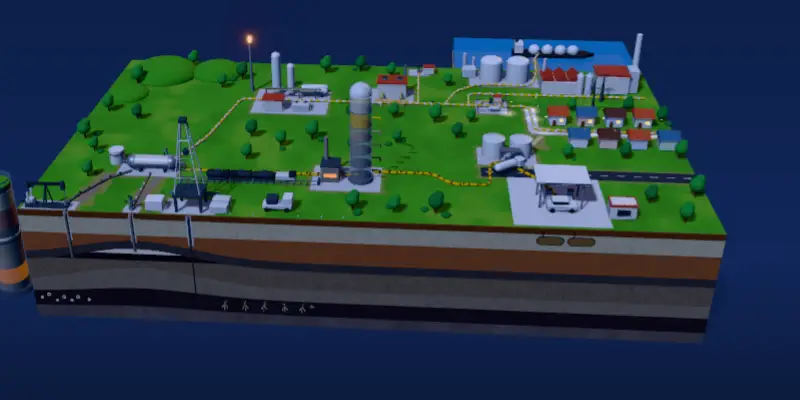
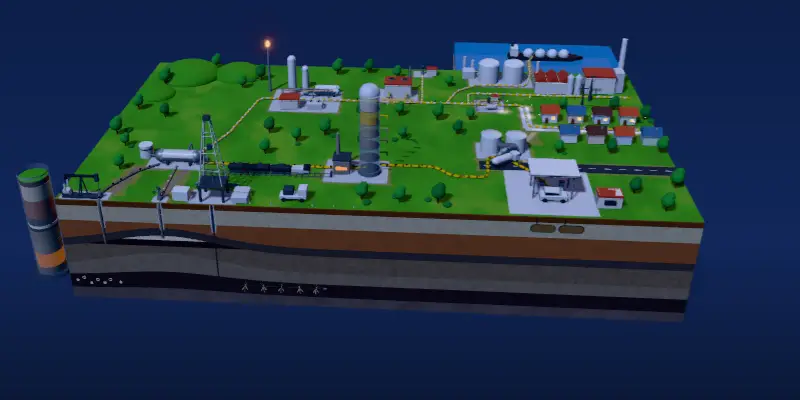
Fix what the stage's review found on the portal
- The Gas & Petroleum card's preview cut the core sample's column off at
  its left edge; it's cropped from the whole model again.
- The hero band, short on most desktops, cut the refinery's dome; it now
  gives up more of the cut face below than of the model's top. On a phone
  held sideways, the 4:3 still could stand taller than the screen; it's
  held to most of it.
- A card's section line read to a screen reader as one run-on phrase; a
  stop between the section's name and its line is heard, not seen. The
  cards' list is named for what's on it, lessons and what's coming.
- The hero's name and line take their sizes from the type scale (a new
  lede size for the line), as every other size does.
- The shell test checks the cards' own list, not the footer's links.
- A comment said the step bar names where Next goes; it doesn't, so the
  comments now say what's true: its Next goes on to it.

diff --git a/tests/e2e/portal.spec.ts b/tests/e2e/portal.spec.ts
@@ -13,6 +13,7 @@ import { BRAND, SITE_URL } from '../../config/brand.ts';
 import { SECTIONS, type Lesson } from '../../content/portal.ts';
 import { THEMES } from '../../src/design/tokens.ts';
 import { PAGES, lessonPage, lessonTransition, pageById } from '../../src/site/pages.ts';
+import { CARDS_NAME } from '../../src/site/shell.ts';
 import { SETTINGS_KEY } from '../../src/site/settings.ts';
 import { PREVIEW_SIZE, heroPath, previewPath } from '../../src/site/stills.ts';
 import { expect, loadImages, test, waitReady } from './fixtures.ts';
@@ -39,7 +40,7 @@ async function expectNoViolations(page: Page) {
 test('the portal’s cards show every lesson and section, and what’s coming', async ({ page }) => {
   await openPortal(page);
   await expect(page).toHaveTitle(BRAND.name);
-  const cards = page.getByRole('list', { name: 'Lessons' }).getByRole('listitem');
+  const cards = page.getByRole('list', { name: CARDS_NAME }).getByRole('listitem');
   const lessons = SECTIONS.flatMap((section) => section.lessons);
   const coming = SECTIONS.filter((section) => section.lessons.length === 0);
   await expect(cards).toHaveCount(lessons.length + coming.length);
@@ -95,7 +96,7 @@ test.describe('on a desktop', () => {
     for (const part of [
       page.getByRole('heading', { level: 1 }),
       page.locator('.hero-image'),
-      ...(await page.getByRole('list', { name: 'Lessons' }).getByRole('listitem').all()),
+      ...(await page.getByRole('list', { name: CARDS_NAME }).getByRole('listitem').all()),
     ]) {
       const box = await part.boundingBox();
       expect((box?.y ?? Infinity) + (box?.height ?? 0)).toBeLessThanOrEqual(screen);

diff --git a/src/site/shell.ts b/src/site/shell.ts
@@ -28,6 +28,9 @@ export const HERO_SLOT = '<!-- portal-hero -->';
 /** Where the cards go in the portal's static shell. */
 export const CARDS_SLOT = '<!-- portal-cards -->';
 
+/** What the cards' list is named for readers: the lessons, then what's to come. */
+export const CARDS_NAME = 'Lessons, and what’s coming';
+
 const attr = escapeHtml;
 
 /** The head's tags, after the page's own. */
@@ -178,7 +181,8 @@ export function cardsHtml(): string {
       // The link covers the whole card, so anywhere on it opens the lesson.
       `<h2 class="card-title"><a class="card-link" href="${BASE_PATH}${lesson.href}">${escapeHtml(lesson.title)}</a>${iconSlot('forward', 'card-arrow')}</h2>`,
       `<p class="card-summary">${escapeHtml(lesson.summary)}</p>`,
-      `<p class="card-section">${iconSlot(section.icon, 'card-icon')}<span><strong>${escapeHtml(section.title)}</strong> ${escapeHtml(section.summary)}</span></p>`,
+      // A stop between the section's name and its line, heard but not seen.
+      `<p class="card-section">${iconSlot(section.icon, 'card-icon')}<span><strong>${escapeHtml(section.title)}</strong><span class="sr-only">:</span> ${escapeHtml(section.summary)}</span></p>`,
       '</div></li>',
     ].join('');
   };
@@ -198,7 +202,7 @@ export function cardsHtml(): string {
     ),
     ...SECTIONS.filter((section) => section.lessons.length === 0).map(soonCard),
   ];
-  return `<ul class="cards" aria-label="Lessons">${cards.join('')}</ul>`;
+  return `<ul class="cards" aria-label="${attr(CARDS_NAME)}">${cards.join('')}</ul>`;
 }
 
 /**

diff --git a/src/site/shell.test.ts b/src/site/shell.test.ts
@@ -4,7 +4,7 @@ import { describe, expect, it } from 'vitest';
 import { BASE_PATH, BRAND, SITE_URL, escapeHtml } from '../../config/brand.ts';
 import { SECTIONS } from '../../content/portal.ts';
 import { PAGES, lessonPage, lessonTransition, pageById, posterPath } from './pages.ts';
-import { BOOT, CARDS_SLOT, HERO_SLOT, LOADER_SLOT, renderPage } from './shell.ts';
+import { BOOT, CARDS_NAME, CARDS_SLOT, HERO_SLOT, LOADER_SLOT, renderPage } from './shell.ts';
 import { HERO_SHAPES, THEME_NAMES, heroPath, previewPath } from './stills.ts';
 
 const render = (page: (typeof PAGES)[number]) => renderPage(readFileSync(page.html, 'utf8'), page);
@@ -88,7 +88,11 @@ describe('renderPage', () => {
   });
 
   it('the portal: a card for each lesson, with its preview in each theme, then what’s coming', () => {
-    const html = render(pageById('portal'));
+    const page = render(pageById('portal'));
+    // The cards' list alone, not the footer's lessons.
+    const start = page.indexOf(`<ul class="cards" aria-label="${escapeHtml(CARDS_NAME)}">`);
+    const html = page.slice(start, page.indexOf('</ul>', start));
+    expect(start).toBeGreaterThan(0);
     // Each section's first card carries its id: the lessons' first, then what's coming.
     const ids = [...html.matchAll(/<li id="([^"]+)" class="card/g)].map(([, id]) => id);
     const live = SECTIONS.filter((s) => s.lessons.length > 0);

diff --git a/src/pages/portal/portal.css b/src/pages/portal/portal.css
@@ -31,7 +31,7 @@
 .hero-title {
   margin: 0;
   font-family: var(--font-display);
-  font-size: clamp(2.5rem, 1.75rem + 3vw, 4.25rem);
+  font-size: var(--text-display);
   font-weight: 900;
   font-stretch: 112%;
   line-height: 1;
@@ -41,7 +41,7 @@
 .hero-line {
   margin: 0;
   color: var(--ink-2);
-  font-size: clamp(1.0625rem, 0.95rem + 0.5vw, 1.375rem);
+  font-size: var(--text-lede);
   line-height: 1.35;
   text-wrap: balance;
 }
@@ -54,7 +54,8 @@
 .hero-image {
   --hero: var(--hero-light-wide);
   height: clamp(12rem, 100svh - 38rem, 24rem);
-  background: var(--hero) center / cover no-repeat;
+  /* Cut more from the cut face than from the refinery's top, where the band is short. */
+  background: var(--hero) center 30% / cover no-repeat;
 }
 
 @media (prefers-color-scheme: dark) {
@@ -294,9 +295,11 @@
     padding-top: calc(var(--header-h) + var(--space-3));
   }
 
+  /* No taller than most of the screen, as on a phone held sideways. */
   .hero-image {
     --hero: var(--hero-light-narrow);
     height: auto;
+    max-height: 65svh;
     aspect-ratio: 4 / 3;
   }
 

diff --git a/src/pages/gas-petroleum/scene/shots.ts b/src/pages/gas-petroleum/scene/shots.ts
@@ -166,8 +166,8 @@ export function stopAim(model: StopModel): { from: Point; to: Point } {
  * view has, at about a third of it, with the markers of the stops it leads to (`inSight`) on
  * screen too, the camera standing back along its line as far as that takes (but for a stop framed
  * alone); no farther out for its subject than `STOP_SHOT.reach` of the overview's distance in that
- * room (`overview`), and no nearer than it comes. The camera's buttons and the guide leave that room, so nothing slides it
- * off center.
+ * room (`overview`), and no nearer than it comes. The camera's buttons and the guide leave that
+ * room, so nothing slides it off center.
  */
 export function stopShot(
   model: StopModel,

diff --git a/src/design/tokens.ts b/src/design/tokens.ts
@@ -342,8 +342,10 @@ export const TYPE = {
  * between, so there are no jumps at breakpoints.
  */
 export const TYPE_SCALE = {
-  /** The portal's statement. 36 to 64 px. */
+  /** The portal's name, set as the wordmark. 36 to 64 px. */
   display: 'clamp(2.25rem, 1.5rem + 3.2vw, 4rem)',
+  /** The portal's line under its name. 17 to 22 px. */
+  lede: 'clamp(1.0625rem, 0.95rem + 0.5vw, 1.375rem)',
   /** A page's title. 22 to 28 px. */
   h1: 'clamp(1.375rem, 1.2rem + 0.75vw, 1.75rem)',
   /** Sections. 20 to 22 px. */

diff --git a/src/pages/gas-petroleum/scene/stop.ts b/src/pages/gas-petroleum/scene/stop.ts
@@ -35,7 +35,7 @@ export interface StopModel {
   /**
    * The camera's direction at this stop: from where, at what. The fit sets the distance. `alone`:
    * framed for its subject alone, at a third of the view, with the stop it leads to in sight only
-   * where it fits then (the step bar says where Next goes).
+   * where it fits then (the step bar's Next goes on to it).
    */
   view: { from: Point; to: Point; alone?: boolean };
   /** What must be in view at this stop, beyond its hit volumes and details. */

diff --git a/scripts/thumbnails.ts b/scripts/thumbnails.ts
@@ -95,8 +95,8 @@ const SHOTS: Shot[] = [
     path: 'utilities/gas-petroleum/?tier=high&capture',
     ready: dioramaReady,
     hide: DIORAMA_CHROME,
-    // The whole model, apart from the hero's slice of it.
-    crop: { x: 120, y: 110, width: 1040 },
+    // The whole model, from the core sample's column to the town, apart from the hero's slice.
+    crop: { x: 64, y: 100, width: 1136 },
   },
 ];
 

diff --git a/CLAUDE.md b/CLAUDE.md
@@ -175,7 +175,7 @@ In the field, the color is the code.
 - **The journey** (`src/pages/gas-petroleum/journey.ts`) is a pure state machine with its own tests: Start walks the shared stops to the fork, where the reader chooses a path; that path's stops follow, then its quiz; the end offers the other path from the fork. A stop opened on its own, from its marker or the map, starts a journey there along its path (`journeyAt`; a shared stop, along the path the view shows, or with the choice still to come), unless it's on the way of the one under way.
 - **The step bar** (`ui/StepBar.tsx`) is the one set of step controls: Start at the beginning in the overview; at a stop, the overview and back (round buttons), "Step 6 of 9" over a strip of its stops, and Next, or Quiz at a path's end, or at the fork with no path chosen, Choose a path; in a quiz, back and Finish. It sits at the foot of the guide beside the view (under its title while it's closed) and under the sheet's bar on phones; where the guide is too narrow for all of it in a row, its way on takes a row of its own. ← and → step as it does (in a quiz, ← only).
 - **The camera** (`src/kit3d/orbit.ts`, wrapping camera-controls): a drag turns the model all the way round, a right-drag or two fingers pan, the wheel or a pinch zooms toward the pointer, and a double-click or double-tap centers the view on that spot. It tilts between 3° and 78° from overhead, pans within the model (and just in front of its cut face), comes no nearer than what it looks at allows (nearer the higher that is, so tilted flat it still clears the grass: `nearestAt`, held by the rig every frame), and zooms out to a little past where the whole model shows from any side (`ORBIT` in `shots.ts`). On the focused model the arrows turn and tilt, + and − zoom, Shift and the arrows pan, and Home sets it back; elsewhere on the page ← and → step back and on. The cluster in the view's lower right corner (`ui/ViewControls.tsx`) does the same by buttons, which say when they're at a limit and, held, go on moving; beside the view (761 px and wider) they sit in the dock's row (beside the open guide, from 1,024 px; narrower, above the dock), and on phones and short screens they're smaller, in one row where the view is wide enough. The view is framed above them, as beside the guide, so nothing it frames sits under them (where controls still sit over a corner, the overview slides the picture clear: `slide` on a view, in `src/kit3d/fit.ts`); under the open sheet the buttons are hidden and inert, as the view is, and on a phone held sideways the open sheet takes the view's column while the view, and its buttons, move to the column it leaves. The view draws only while something moves; the arrival settles in, and any input lands it. The canvas carries where the camera stands (`data-heading`, `data-tilt`, `data-zoom`, `data-at`) for tests.
-- **Stop shots** (`stopShot` in `shots.ts`): each stop's subject (its parts, their details and its label) sits at the middle of the view at about a third of it (`STOP_SHOT.margin`), seen from at least 15° above level, with the marker of the stop it leads to on screen (`stopsInSight` in `journey.ts`: the next stop, both at the fork, the one before at a path's end). The camera stands back along its line as far as that takes, the subject still centered; a tall subject takes more than a third rather than send the camera past `STOP_SHOT.reach` of the overview's distance. The city gate is framed alone (`alone` on its view): it looks past its station east to the town, whose marker, high over the power plant, can't show behind the station with it at a third, so the station has the view (the step bar says where Next goes). Tall screens see the overview from the east.
+- **Stop shots** (`stopShot` in `shots.ts`): each stop's subject (its parts, their details and its label) sits at the middle of the view at about a third of it (`STOP_SHOT.margin`), seen from at least 15° above level, with the marker of the stop it leads to on screen (`stopsInSight` in `journey.ts`: the next stop, both at the fork, the one before at a path's end). The camera stands back along its line as far as that takes, the subject still centered; a tall subject takes more than a third rather than send the camera past `STOP_SHOT.reach` of the overview's distance. The city gate is framed alone (`alone` on its view): it looks past its station east to the town, whose marker, high over the power plant, can't show behind the station with it at a third, so the station has the view (the step bar's Next goes on to it). Tall screens see the overview from the east.
 - **Markers:** all thirteen stops show on the model as numbered markers in their path's mark (`ui/StopMarker.tsx`), each a button that opens its stop, with its path's icon on a tab. Each is named beside its badge where there's room, in the story's order, the path the view shows first after the fork, and by number alone where there isn't, or in a view too short for names (`LABEL_LIMITS.iconsBelow`, as under a phone's open sheet). The guide's map (`ui/RouteMap.tsx`) names every stop. The open stop's is named and filled in ink, its name placed with its badge, before the others, which keep clear of both; a focused or hovered one shows its name, and stays where it was, in the free part of the view; one on a path the view fades back shows by number, its ring and tab faded; one whose point is out of view, or under a control, steps out of sight. Badges keep off each other's points, and names off every point, so every leader shows. Their points show from every side (none hangs on a face), and the shared start's four sit at least 36 px apart in a tall phone's overview (tested). The small labels on an open stop's parts (`scene/details.ts`) hang beside the points they name, on leaders, so the parts show; the dock's labels toggle hides them (the same `labels` setting as the lab's), and the markers stay, since they're how to get around.
 - **Motion in tests:** e2e tests count frames (`countFrames`, `isMoving`, `waitStill` in `tests/e2e/fixtures.ts`), never screenshots of a moving canvas; one late frame after a pause isn't motion, and stillness waits out the longest of the last few gaps between frames, as one slow software frame isn't stillness.
 
